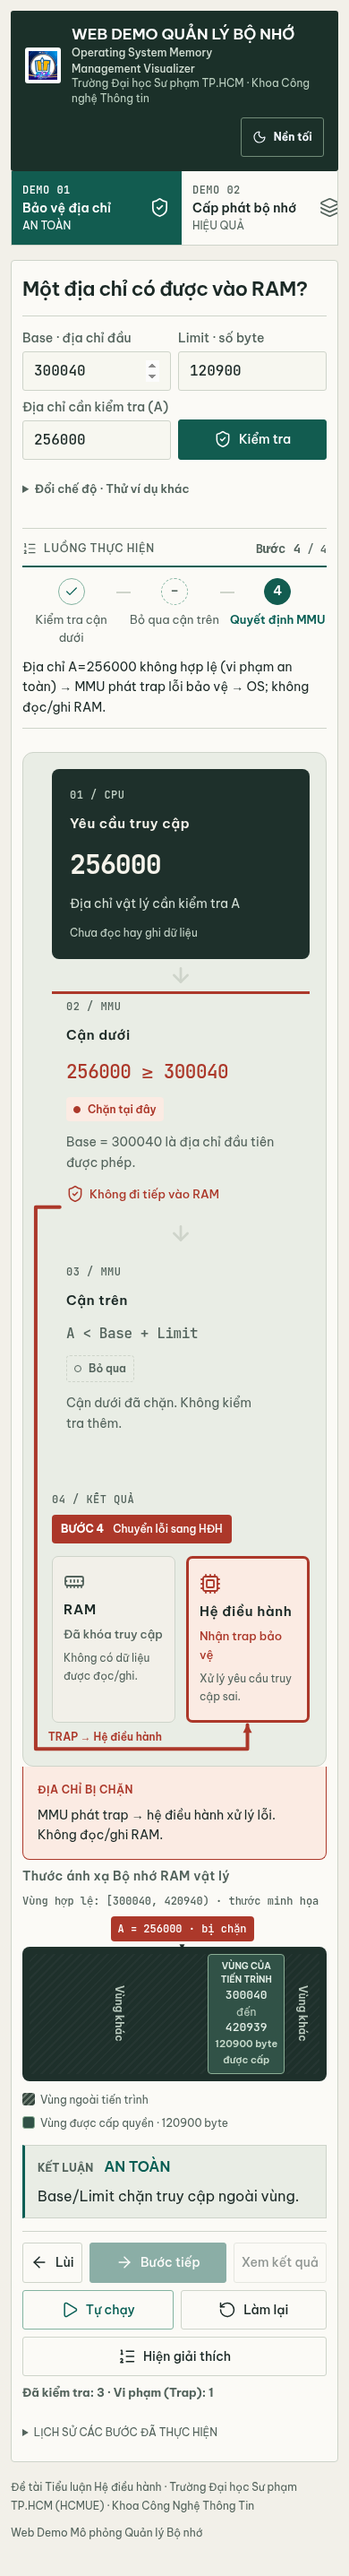
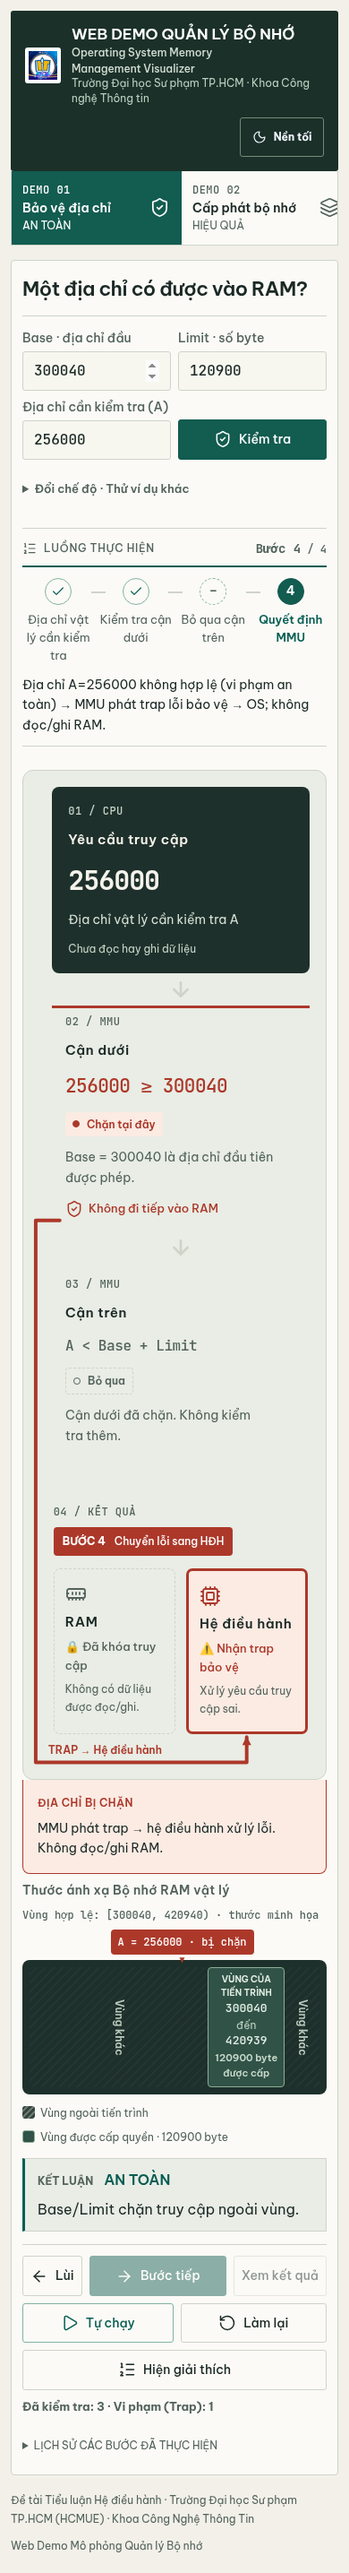
fix(ui): preserve concurrent workbench updates and readable flow badges

diff --git a/assets/css/studio-flow.css b/assets/css/studio-flow.css
@@ -31,7 +31,9 @@ body.studio-ui .studio-flow-line { stroke:currentColor; stroke-width:4px; }
 body.studio-ui .studio-flow-host #r-scene .slot .card:is(.victim,.new,.hitc)::after { color:var(--lab-node-on)!important; font-size:12px!important; }
 body.studio-ui .studio-flow-host #r-scene .slot .card.victim::after { content:"CHỌN RA"!important; }
 body.studio-ui .studio-flow-host #r-scene .slot .card.new::after { content:"NẠP MỚI"!important; }
-body.studio-ui #a-lane .hole.chosen::after { content:"ĐÃ CHỌN"!important; }
+body.studio-ui #a-lane :is(.hole.chosen,.hole.scene-chosen)::after { content:"ĐÃ CHỌN"!important; }
+body.studio-ui #a-lane .hole>.studio-flow-badge { display:none; }
+body.studio-ui #r-scene .scene-ram-hand { color:#ecd5a5!important; font-size:12px!important; }
 body.studio-ui .btn:is(.active-preset,.active-preset-trap) { color:var(--lab-node-on)!important; box-shadow:none!important; }
 body.studio-ui #x-flow .scene-os { margin-top:40px; position:relative; }
 body.studio-ui #x-flow .scene-os.studio-flow-current { outline:3px solid var(--flow-color); outline-offset:3px; }

diff --git a/assets/css/studio-base.css b/assets/css/studio-base.css
@@ -128,6 +128,7 @@ body.studio-ui #b-flow .box[data-processing="true"][data-focus-tone="skip"] { ba
 .studio-ui .studio-b-route-under { fill:none; stroke:var(--studio-surface-alt); stroke-width:8; stroke-linejoin:round; }
 .studio-ui .studio-b-route-line { fill:none; stroke:currentColor; stroke-width:4; stroke-linecap:round; stroke-linejoin:round; }
 .studio-ui .studio-b-route-caption { fill:currentColor; font:600 12px var(--f-body); }
+body.studio-ui #b-flow[data-branch="denied"] .studio-b-ram { opacity:1; }
 body.studio-ui #b-ram-track[data-verdict="pending"] .plabel { background:#1e302b!important; color:#f4f2eb!important; }
 .studio-ui .studio-b-edge svg { width:26px; height:26px; stroke-width:2.5; }
 .studio-ui #b-flow[data-live-route] .studio-b-edge[data-active="true"] svg { visibility:hidden; }

diff --git a/docs/flow-emphasis-review.md b/docs/flow-emphasis-review.md
@@ -1,6 +1,6 @@
 # Mũi tên và bước đang thực hiện
 
-Bản bổ sung trên `design/memory-workbench`, dựa trên `4f0ccee` và giữ các cập nhật giao diện của nhánh. Luồng và thuật toán giữ nguyên; thay đổi tập trung vào vị trí bắt đầu, bước hiện tại, hướng di chuyển và biểu mẫu cơ bản.
+Bản bổ sung trên `design/memory-workbench`, giữ các cập nhật giao diện `4f0ccee` và `52413f5` của nhánh. Luồng và thuật toán giữ nguyên; thay đổi tập trung vào vị trí bắt đầu, bước hiện tại, hướng di chuyển và biểu mẫu cơ bản.
 
 ## Thay đổi nhìn thấy
 
